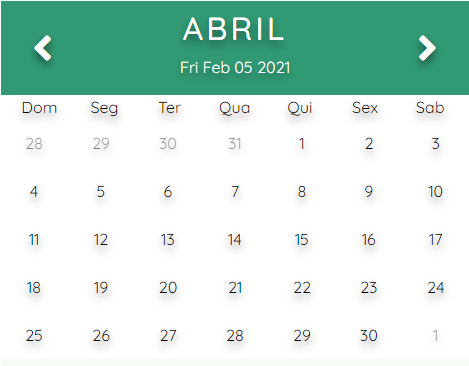
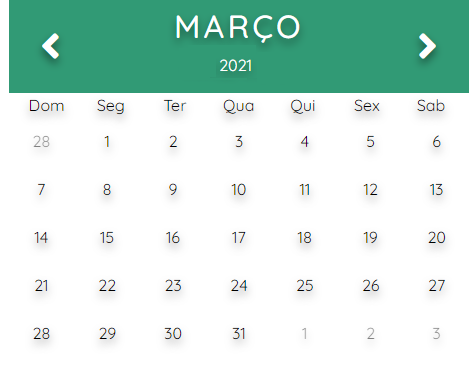
versao final ag servico

diff --git a/src/app/grupo3/pages/agservico/agservico.component.ts b/src/app/grupo3/pages/agservico/agservico.component.ts
@@ -46,6 +46,7 @@ export class AgservicoComponent implements OnInit {
   exibir2: boolean = false; //variavel que exibe a parte de data/hora
   tem: boolean;
   spinResponseLojas: boolean = false;
+  spinResponseHoras: boolean = false;
 
   responseServicos : ResponseServicos; //recebe os serviços
   responseLojas : ResponseLojas[]; //recebe as lojas
@@ -106,18 +107,17 @@ export class AgservicoComponent implements OnInit {
       response => {
         this.responseLojas = response;
         this.spinResponseLojas = false;
-        /*if (this.responseLojas == null){
+        if (response.length == 0){
           alert("Sua busca não retornou resultados");
-        } */
+        }
         
       }
     )
-    
-    
   }
 
   getHorasIndisponiveis(data: string){
     this.data = data;
+    this.spinResponseHoras = true;
 
     this.horarioService.getHorasIndisponiveis(this.idLoja, data).subscribe(
       response => {
@@ -166,13 +166,13 @@ export class AgservicoComponent implements OnInit {
             this.hrNoiteExibir.push(this.hrNoite[m]);
           }
         }
-
+        this.spinResponseHoras = false;
         this.exibir = true;
       }
     )
     console.log(this.hrIndisp);
     
-    this.exibir = true;
+    
   }
   
   salvarAgServico(){
@@ -188,30 +188,45 @@ export class AgservicoComponent implements OnInit {
     //adicionar o agendamento atual no array de agendamentos 
     this.ag = new AgServico(); 
     this.ag.idLoja = this.idLoja;
+   
     this.ag.idServico = this.idServico;
     this.ag.dtDataHora =  "02/02/2021 " + this.horario + ":00"; 
-
     console.log(this.ag.dtHr);
     console.log("Serviço salvo com sucesso!");
-
     this.agendamentos.push(this.ag) ;
-
     //depois enviar o array agendamentos para a pag de pagamentos. 
     localStorage.setItem("agendamentos", JSON.stringify(this.agendamentos));
+    
+    
   }
 
   concluirAgServico(callback: any){
 
-    this.salvarAgServico();
     callback('Cross click');//fechar a modal
-    this.router.navigate(['/pagamento-servico']);
+
+    if (this.idServico == null){
+      alert('Não é possível salvar agendamento sem escolher um serviço')
+    }else if (this.horario == null){
+      alert('Não é possível salvar agendamento sem escolher um horário')
+    }else{
+      this.salvarAgServico();
+      this.router.navigate(['/pagamento-servico']);
+    }
+    
   }
 
   novoAgServico(callback: any){
-    
-    this.salvarAgServico();
     callback('Cross click');//fechar a modal
-    window.location.reload();
+
+    if (this.idServico == null){
+      alert('Não é possível salvar agendamento sem escolher um serviço')
+    }else if (this.horario == null){
+      alert('Não é possível salvar agendamento sem escolher um horário')
+    }else{
+      this.salvarAgServico();
+      window.location.reload();
+    }
+    
   }
   
 }

diff --git a/src/app/grupo3/pages/programa-nutricional/programa-nutricional.component.html b/src/app/grupo3/pages/programa-nutricional/programa-nutricional.component.html
@@ -85,31 +85,24 @@
                             <div class="form-row  ">
                                 <div class="form-group col-md-12">
                                     <select class="form-control" id="EscolherRefeicao" name="idTipoRefeicao" [(ngModel)]="request.idTipoRefeicao.idTipoRefeicao" #idTipoRefeicao="ngModel" placeholder="Escolha a refeição" required> 
-                                        <option value ="selecione">Selecione a refeição</option>
+                                        <option value ="undefined">Selecione a refeição</option>
                                         <option *ngFor = "let tipoRefeicao of responseTipoRefeicao" [value]="tipoRefeicao.idTipoRefeicao">{{tipoRefeicao.dsTipoRefeicao}}</option>
                                     </select>
                                 </div>
-
                                 <div class="form-group col-md-6">
                                     <input type="text" class="form-control" id="nomeReceita" name = " nomeReceita" [(ngModel)]="request.nomeReceita" #nomeReceita= "ngModel" required
                                         placeholder="Nome do Prato">
                                 </div>
-                            
-                            
                                 <div class="form-group col-md-6">
                                     <input class="form-control" id="qtRendimento" name = "qtRendimento" [(ngModel)]="request.qtRendimento" #qtRendimento= "ngModel" placeholder="Calorias" required>
                                 </div>
-
-
                                 <div class="form-group col-md-12">
                                     <textarea type="text" class="form-control" id="dsDescricao" name = "dsDescricao" [(ngModel)]="request.dsDescricao" #qtDescricao= "ngModel" placeholder="Descrição" required rows = "3"></textarea>
                                 </div>
+                                <div class="form-group col-md-12">
+                                    <input class="form-control" id="qtCalorias" name = "qtCalorias" [(ngModel)]="request.qtCalorias" #qtCalorias= "ngModel" placeholder="Quantidade" required>
+                                </div>
                             </div>
-
-                            <div class="form-group col-md-12">
-                                <input class="form-control" id="qtCalorias" name = "qtCalorias" [(ngModel)]="request.qtCalorias" #qtCalorias= "ngModel" placeholder="Quantidade" required>
-                            </div>
-
             
                             <div class="row d-flex justify-content-center">
                                 <button type="button" class="btn btn-success btn-verde" id="btn-confirma"  value="Cadastrar" (click)="cadastrar()">Confirmar</button>

diff --git a/src/app/grupo3/pages/agservico/agservico.component.html b/src/app/grupo3/pages/agservico/agservico.component.html
@@ -62,10 +62,10 @@
             </div>
             
             <div class="row p-15">
-                <div class="form-group col-12 col-lg-5 pt-3 calendario" style="height: 400px;">
+                <div class="form-group col-12 col-lg-5 pt-3 calendario" style="height: 370px;">
                     <div class="containerx">
                         
-                        <a (click)="getHorasIndisponiveis('2021-02-02')"> <img class="img-fluid "
+                        <a (click)="getHorasIndisponiveis('2021-03-05')"> <img class="img-fluid "
                             src="/assets/img/calendar.png">
                         </a>
                         <!--<div class="calendar">
@@ -77,14 +77,19 @@
                 
 
                <!-- <button type="button" class="btn btn-success btn-verde btn-seleciona"  (click)="getHorasIndisponiveis('2021-02-02')">CLIQUE AQUI</button>
-               -->     
+               -->
+                
+                <div class="form-group col-12 col-lg-5 offset-md-1 pt-3">
 
-                <div class="form-group col-12 col-lg-5 offset-md-1 pt-3" *ngIf = "exibir == true">
-                    <div class="row p-15" style="background-color: white;">
-                        <h5>Terça-feira, 2 de feveiro de 2021</h5>
+                    <div class="row justify-content-center spinner-grow text-muted">
+                        <i *ngIf="spinResponseHoras" class="fa fa-spinner fa-spin"></i>
+                    </div>
+
+                    <div class="row p-15" style="background-color: white;" *ngIf = "exibir == true">
+                        <h5>Sexta-feira, 5 de março de 2021</h5>
                     </div>
                     
-                    <div class="form-group col-12 col-lg-12 pt-3 border rounded">
+                    <div class="form-group col-12 col-lg-12 pt-3 border rounded" *ngIf = "exibir == true">
                         <div class="row justify-content-start pt-2 pl-2 pr-2"><p>Manhã</p></div>
                         <div class="row justify-content-around pt-1 pl-2 pr-2">                            
                             <button *ngFor = "let hora of hrManhaExibir" type="button" class="btn btn-success btn-verde" (click)="getHora(hora)">{{hora}}</button>

diff --git a/src/app/grupo3/pages/programa-nutricional/programa-nutricional.component.ts b/src/app/grupo3/pages/programa-nutricional/programa-nutricional.component.ts
@@ -67,7 +67,7 @@ export class ProgramaNutricionalComponent implements OnInit {
  listarTipoRefeicao(){
     this.tipoRefeicaoService.getTipoRefeicoes().subscribe(
       response => {
-        this.responseTipoRefeicao= response;
+        this.responseTipoRefeicao= response; 
   }
     );
 }
